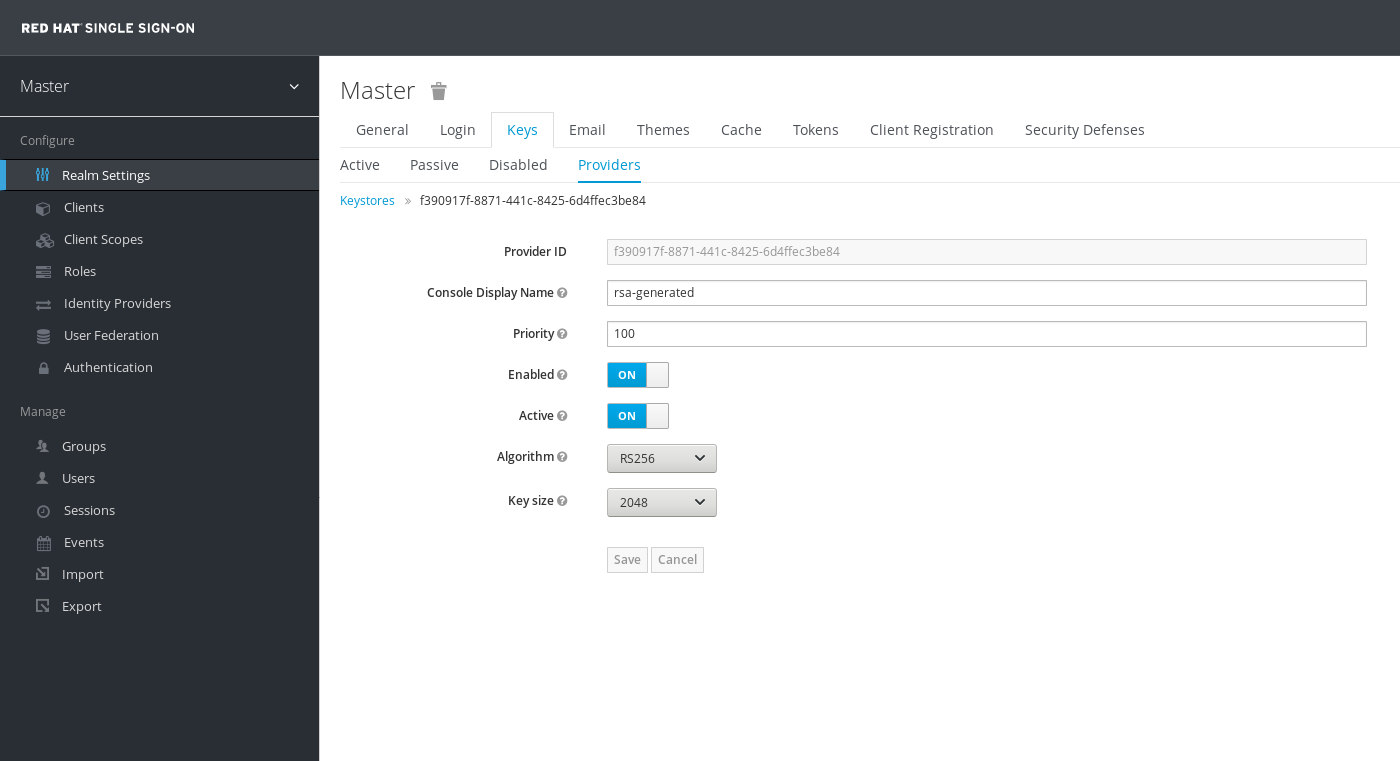
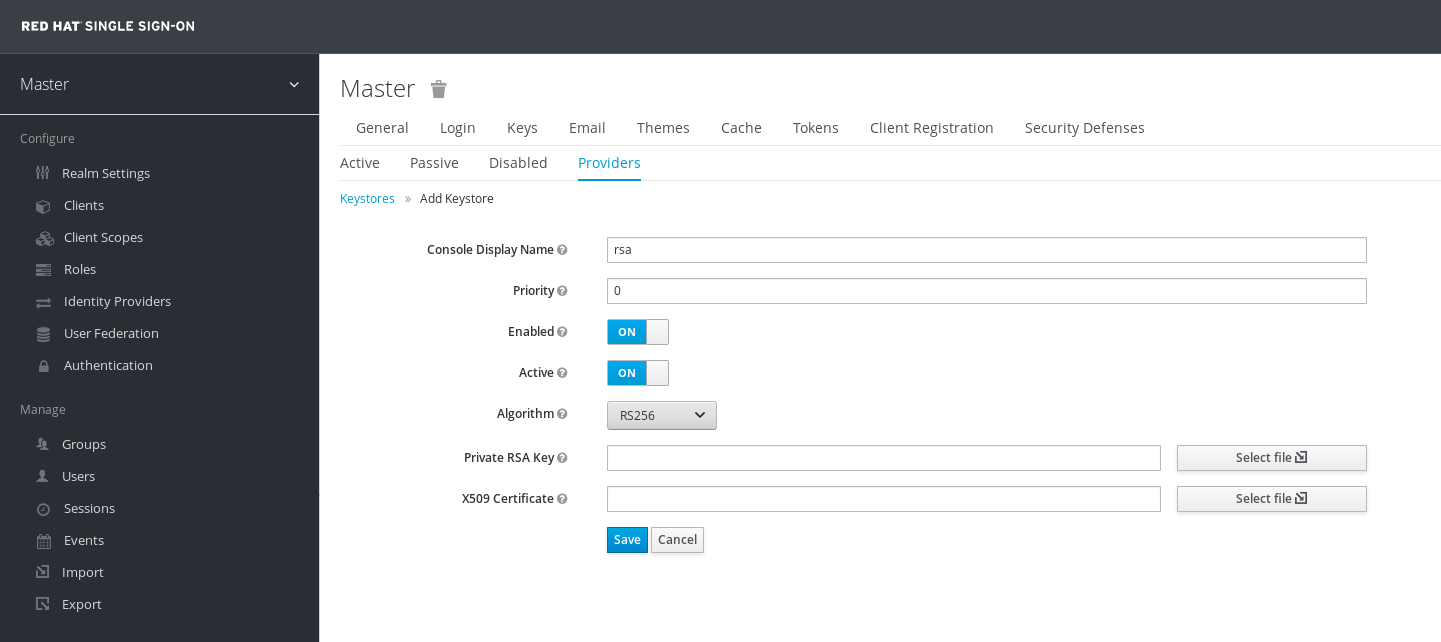
Completed user management

diff --git a/Administration.md b/Administration.md
@@ -105,15 +105,30 @@ Keypairs can be seen in the **Keys** tab.
 
 The **Active** and **Passive** sub-tabs show the current active key and the
 passivated keys. It's recummended to regurarly rotate the keys.
+
+##### Adding keypairs
 To add a new keypair click on the **Providers** sub-tab and then select from
 the **Add keystore...** menu the correct provider. Select **rsa-generated** to
 create a new RSA keypair. Configure the key priority to the desired value.
 Active keypair can coexist in a Realm and the keypair with the highest priority
 will be used.
 
-![Add RSA provider](images/add-rsa-provider.png)
+![Add rsa-generated provider](images/add-rsa-generated-provider.png)
 
 Existing keypairs can be passivated or disabled by configuring their provider.
+
+##### Uploading keypairs
+Keypairs and certificates can also be uploaded manually by selecting the **rsa**
+provider and choosing the private key and X509 certificate to upload:
+
+![Add rsa provider](images/add-rsa-provider.png)
+
+##### Loading keys from Java keystores
+Keypairs and certificates stored in a Java Keystore can be uploaded using the
+**Keystore** provider and by passing the keys file, along with the Keystore
+password, key alias and password.
+
+![Add keystore provider](images/add-keystore-provider.png)
 
 #### Ream Themes
 After creating a Realm themes can be customized.
@@ -178,3 +193,51 @@ settings. The password can be set as **Temporary** to force the change upon next
 user login.
 
 ![User credentials](images/user-credentials.png)
+
+#### User OTP configuration
+Administrators can force users to setup two-factor authentication using an
+OTP application like [FreeOTP](https://freeotp.github.io/) or Google Authenticator.
+Users must install either one of this apps in order to autheticate using 2FA.
+
+In RH-SSO this task involves the intervention of the user to setup for the first time
+the OTP app by scanning a provided QR code.
+Administrators can force users to complete this task upon first login using the
+**Configure OTP** Required Used Action.
+
+![Require OTP](images/user-require-otp.png)
+
+When the user first logs in the Mobile Authenticator Setup screen will appear
+asking to scan the QR code with the phone camera and generate a one time code.
+
+![Configure OTP](images/user-configure-otp.png)
+
+The Realm OTP policy can be configured in **Authentication** -> **OTP Policy**.
+Here administrators can setup the OTP Type, Hash Algorithm, the number of
+generated digits and the token period.
+
+![OTP Policy](images/authentication-otp-policy.png)
+
+#### User Self-registration
+Red Hat Single Sign-On can be configured to allow user self-registration in the
+defined Realm. To enable it enable the `User registration` switch in **Realm
+Settings** -> **Login**.
+
+![User self-registration](images/user-self-registration.png)
+
+ This action will enable a **Register** link in the login page.
+
+![Registration form](images/user-registration-form.png)
+
+#### Password Recovery
+Administrators can let Realm users recover their passwords by enabling the
+option `Forgot password` under **Realm Settings** -> **Login**.
+
+![Password Reset](images/user-password-reset.png)
+
+The message sent to the user will include a link to reset the credentials.
+The text of the email message is totally customizable by editing the email theme.
+
+Administrators can manage the behavior of credentials reset under **Authentication**
+-> **Flows** in the `Reset Credentials` dropdown menu item.
+
+![Reset Flow](images/reset-credentials-flow.png)
